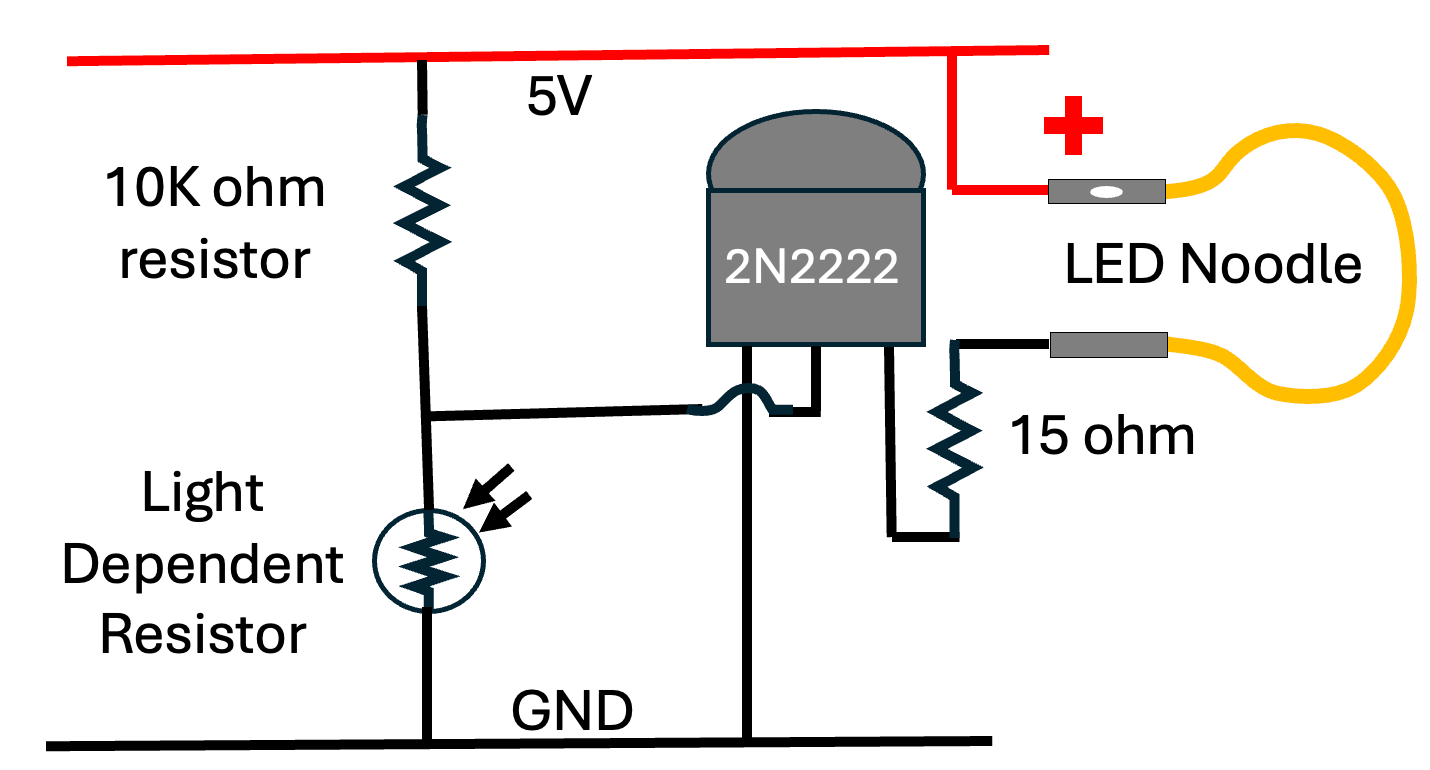
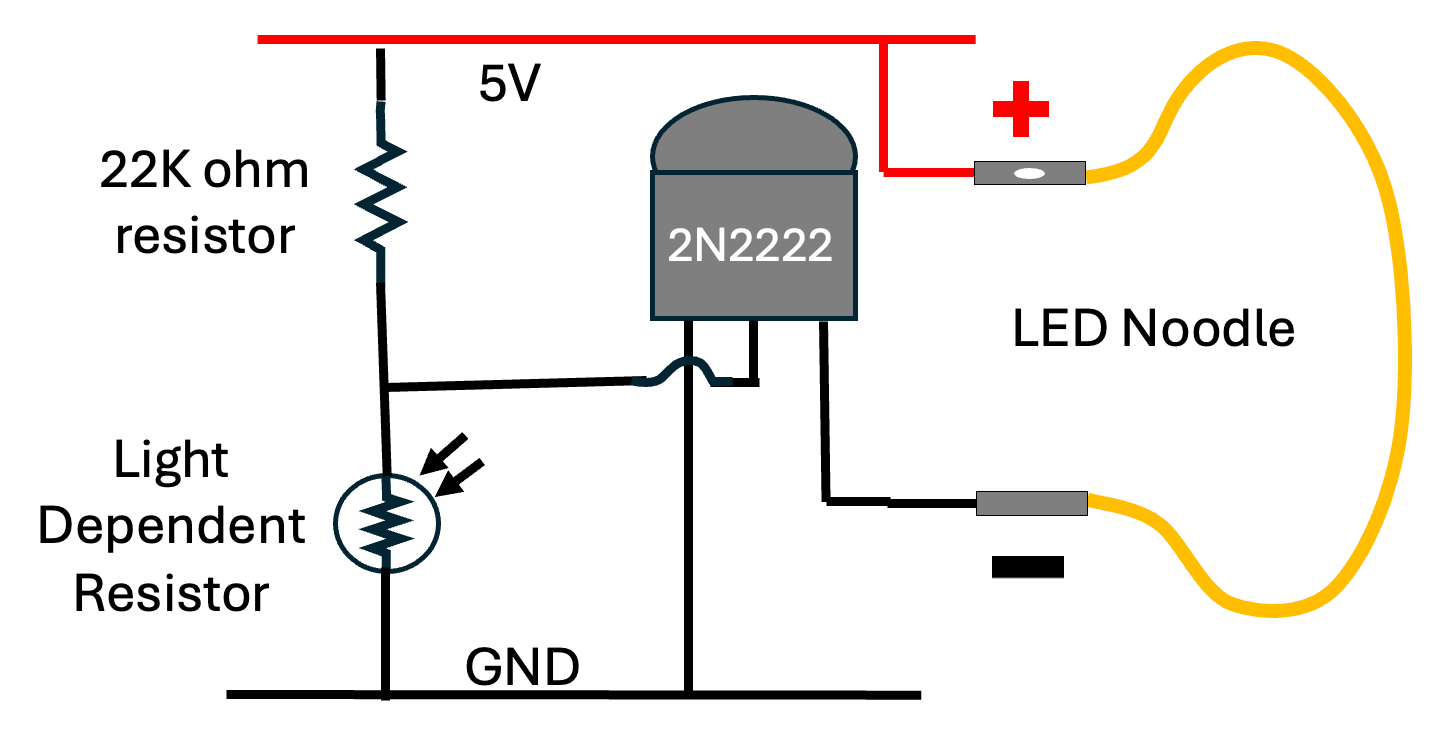
updating content

Changed region(s): [[0.0308, 0.0311, 1.0, 0.9946], [0.7077, 0.5284, 0.8615, 0.5905], [0.6769, 0.7459, 0.7692, 0.8081]]

diff --git a/docs/led-noodles/led-noodle-nightlight.md b/docs/led-noodles/led-noodle-nightlight.md
@@ -8,6 +8,20 @@ by adding a photo-sensor to our LED circuit.
 
 ![Night Light Circuit](./night-light-circuit.png)
 
+In this circuit, there is a 22K ohm resistor that connects the base of the
+2N2222 transistor to the +5 volt power rail.
+
+Note that because there is a voltage drop across the 2N2222 transistor, we can
+omit the 15 ohm current limiting resistor we need for a 5 volt power supply.
+
+!!! Warning
+    Be carful when connected the LED noodle.  
+    We never want to directly connect the LED
+    noodle directly to +5 volts and GND.  
+    We suggest ALWAYS having a 15 ohm resistor
+    in series with the LED noodle when testing so you don't accidentally
+    burn out the LED noodle using a 5-volt power supply.
+
 ## Light Dependant Resistors
 
 ![](./ldr.png)
@@ -24,6 +38,33 @@ LDR sensors are inexpensive.  You can typically get 30 of them on eBay
 for under $2.
 ![](./ldr-on-ebay.png)
 You can also combine them in parallel to create very sensitive sensors.
+
+## Measuring On and Off Resistance
+
+To create the right sensitivity of the nightlight, we need to
+carefully measure the resistance of your LDR under different lighting conditions.
+This is easy to do with a standard digital multimeter set to measure the resistance
+of a circuit.
+
+![](./LDR-resistance.png)
+
+In the circuit above, I wrapped the bottom part of the LED in black electrical tape
+and then measured the resistance in two conditions:
+
+1. When the LDR was uncovered - which gave a resistance across the LDR of about 20K ohms.
+2. When the LDR was covered by my finger (which still transmitted some light) - which gave a resistance of about 2K ohms.
+
+I tried various different values of resistors using a 50K potentiometer.
+
+The value that gave me the best value for testing in my classroom was a 22K ohm resistor.
+The value of resistor that you use for the bias resistor might vary depending
+on how sensitive your LDR is and how bright your room lights are.
+
+You can also test the extreme values of the LDR by completely covering the LDR
+with black electrical tape which should give you a resistance of close to one megohm.
+
+You can also shine a bright flashlight directly on the LDR to get a resistance of
+around 100 ohms. 
 
 ## Dividing the Voltage
 

diff --git a/docs/led-noodles/led-noodle-dimmer.md b/docs/led-noodles/led-noodle-dimmer.md
@@ -1,0 +1,20 @@
+# LED Noodle Dimmer
+
+LED noodles can be very bright.  When used in a costume at
+a party in a dark room, the brightness can been overwhelming!
+To be attractive, the brightness of the LEDs need to be turned
+down.
+
+In this lesson, we will use a potentiometer to change
+the brightness of one or more LED noodles.  We
+will start using a simple potentiometer in series
+with the LED and then move on to circuits with
+finer grain of control.
+
+!!! Warning
+    Be carful when you are adjusting the resistance of
+    these circuits.  We never want the current limiting
+    resistor to go to zero.  That will burn out the LED
+    noodle.  We suggest ALWAYS having a 15 ohm resistor
+    in series with the LED noodle so you don't accidentally
+    burn it out using a 5 volt power supply.
